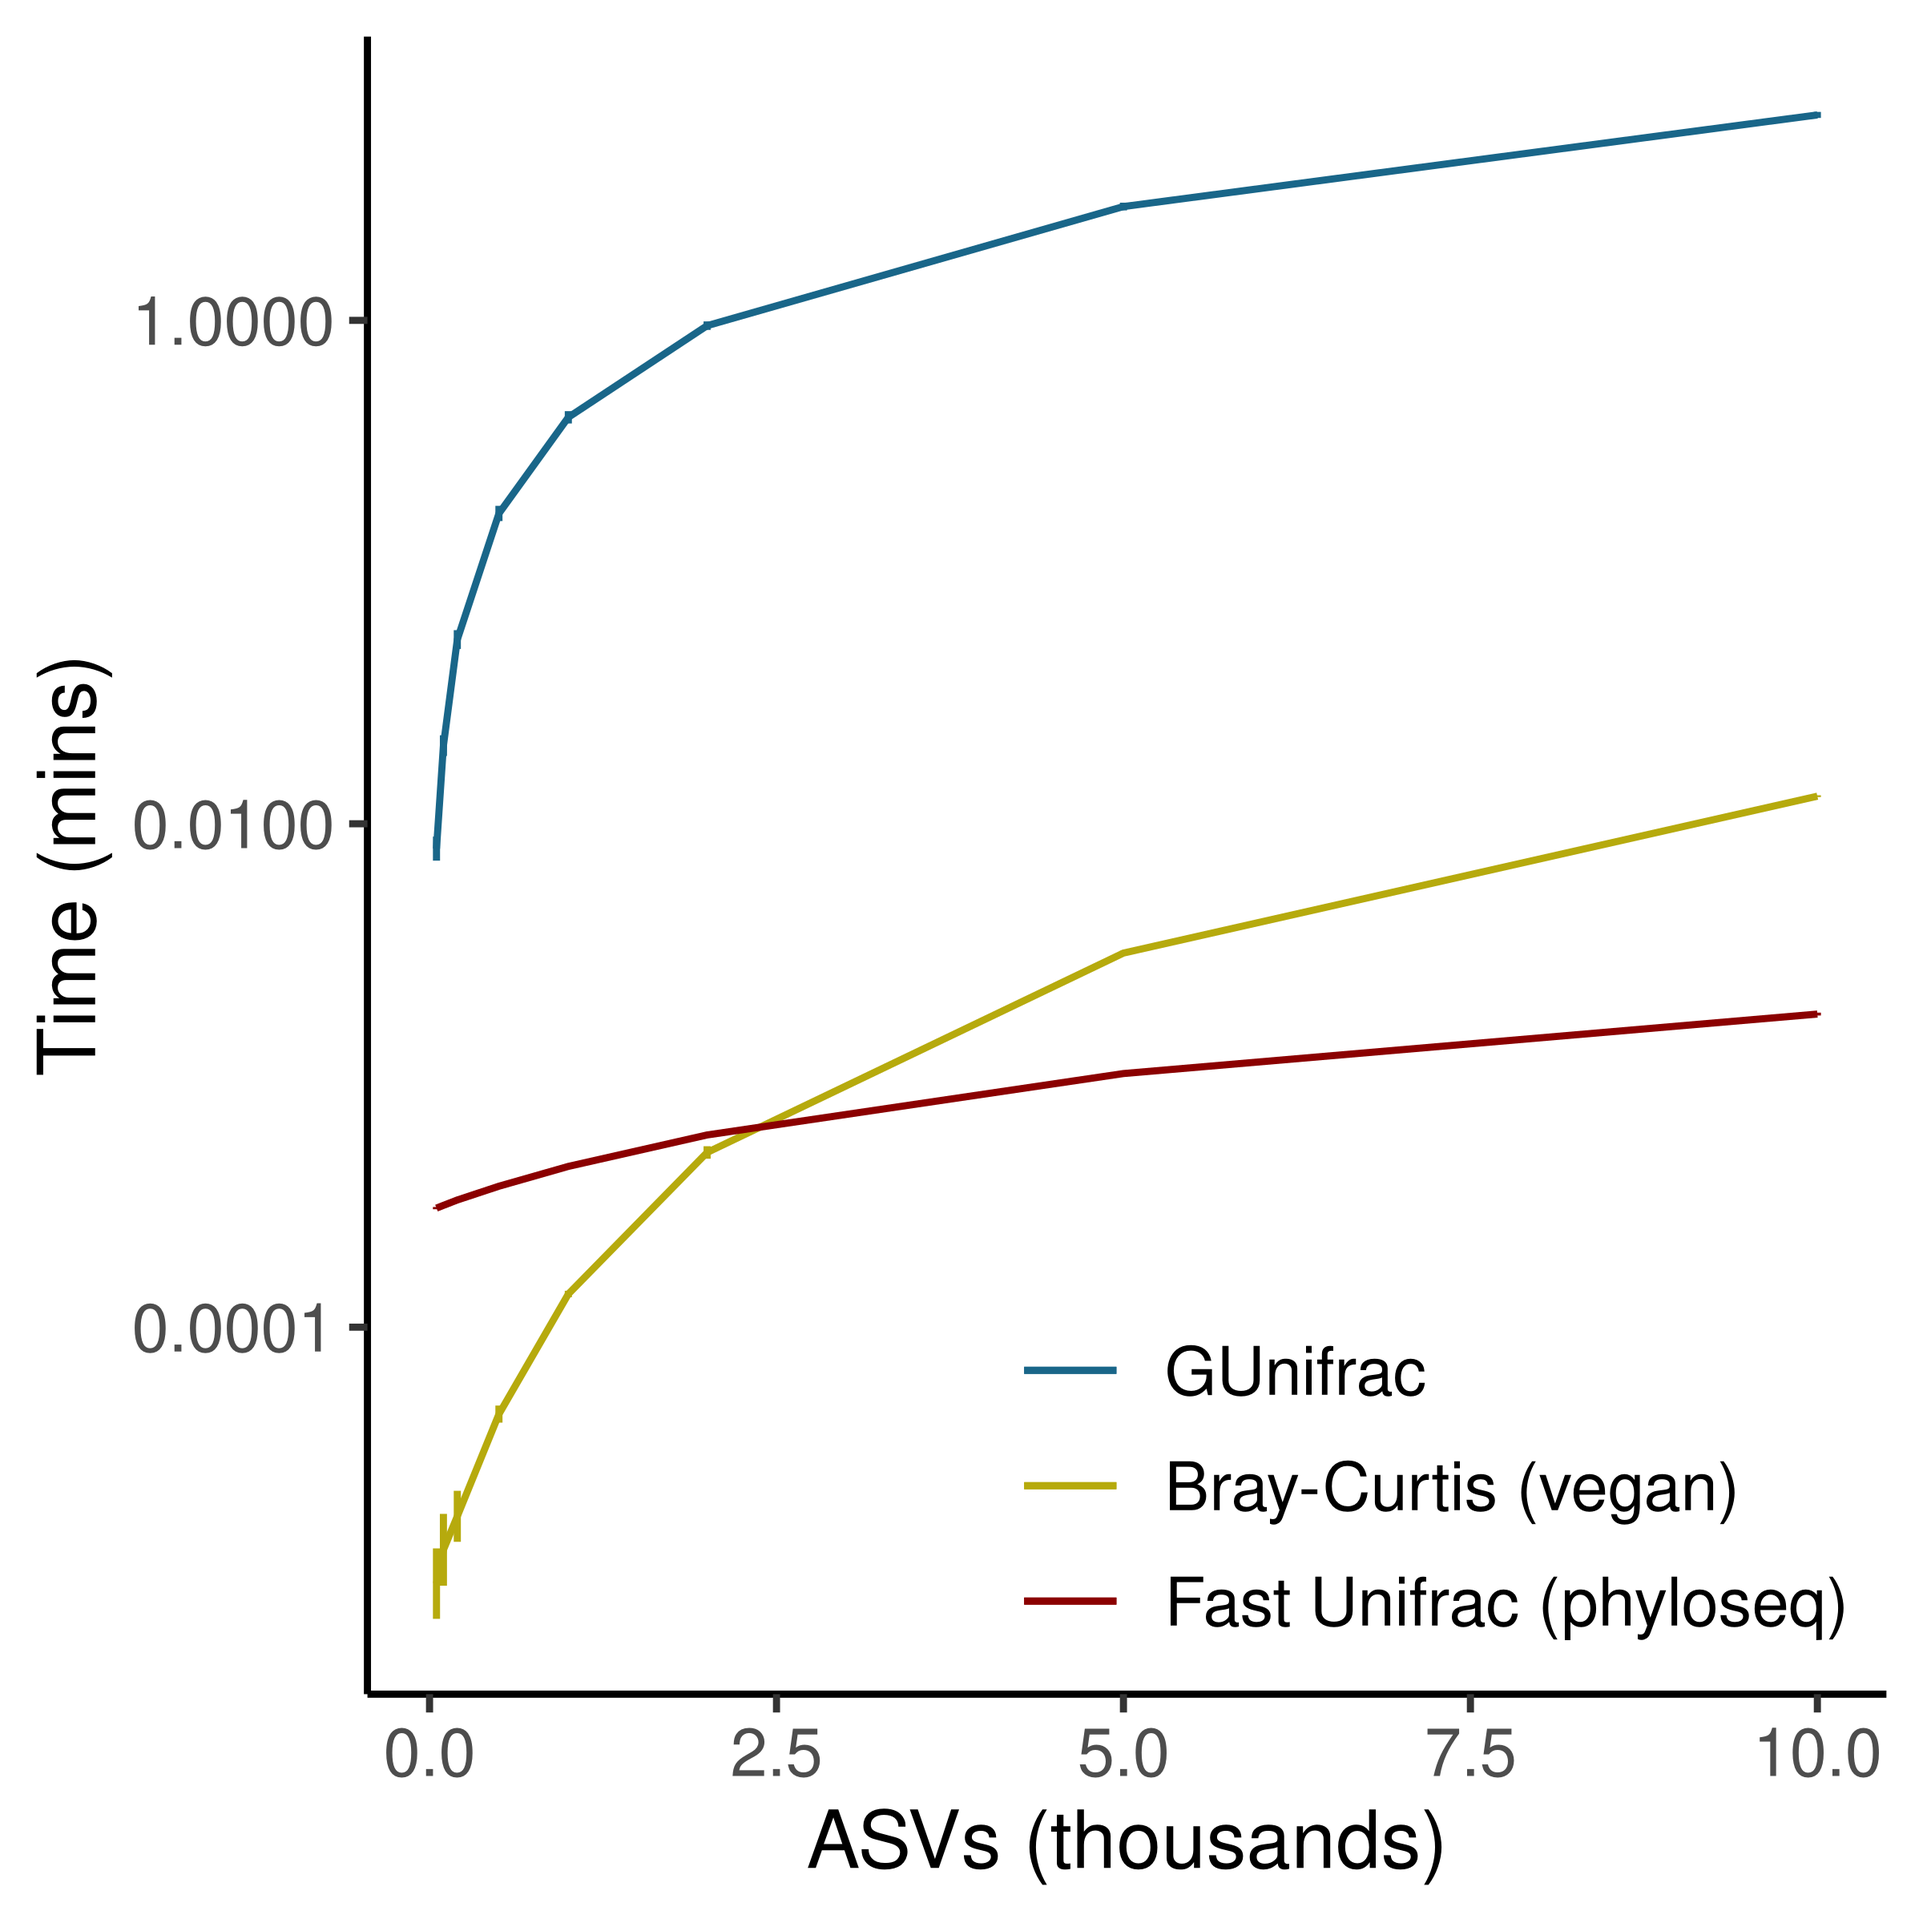
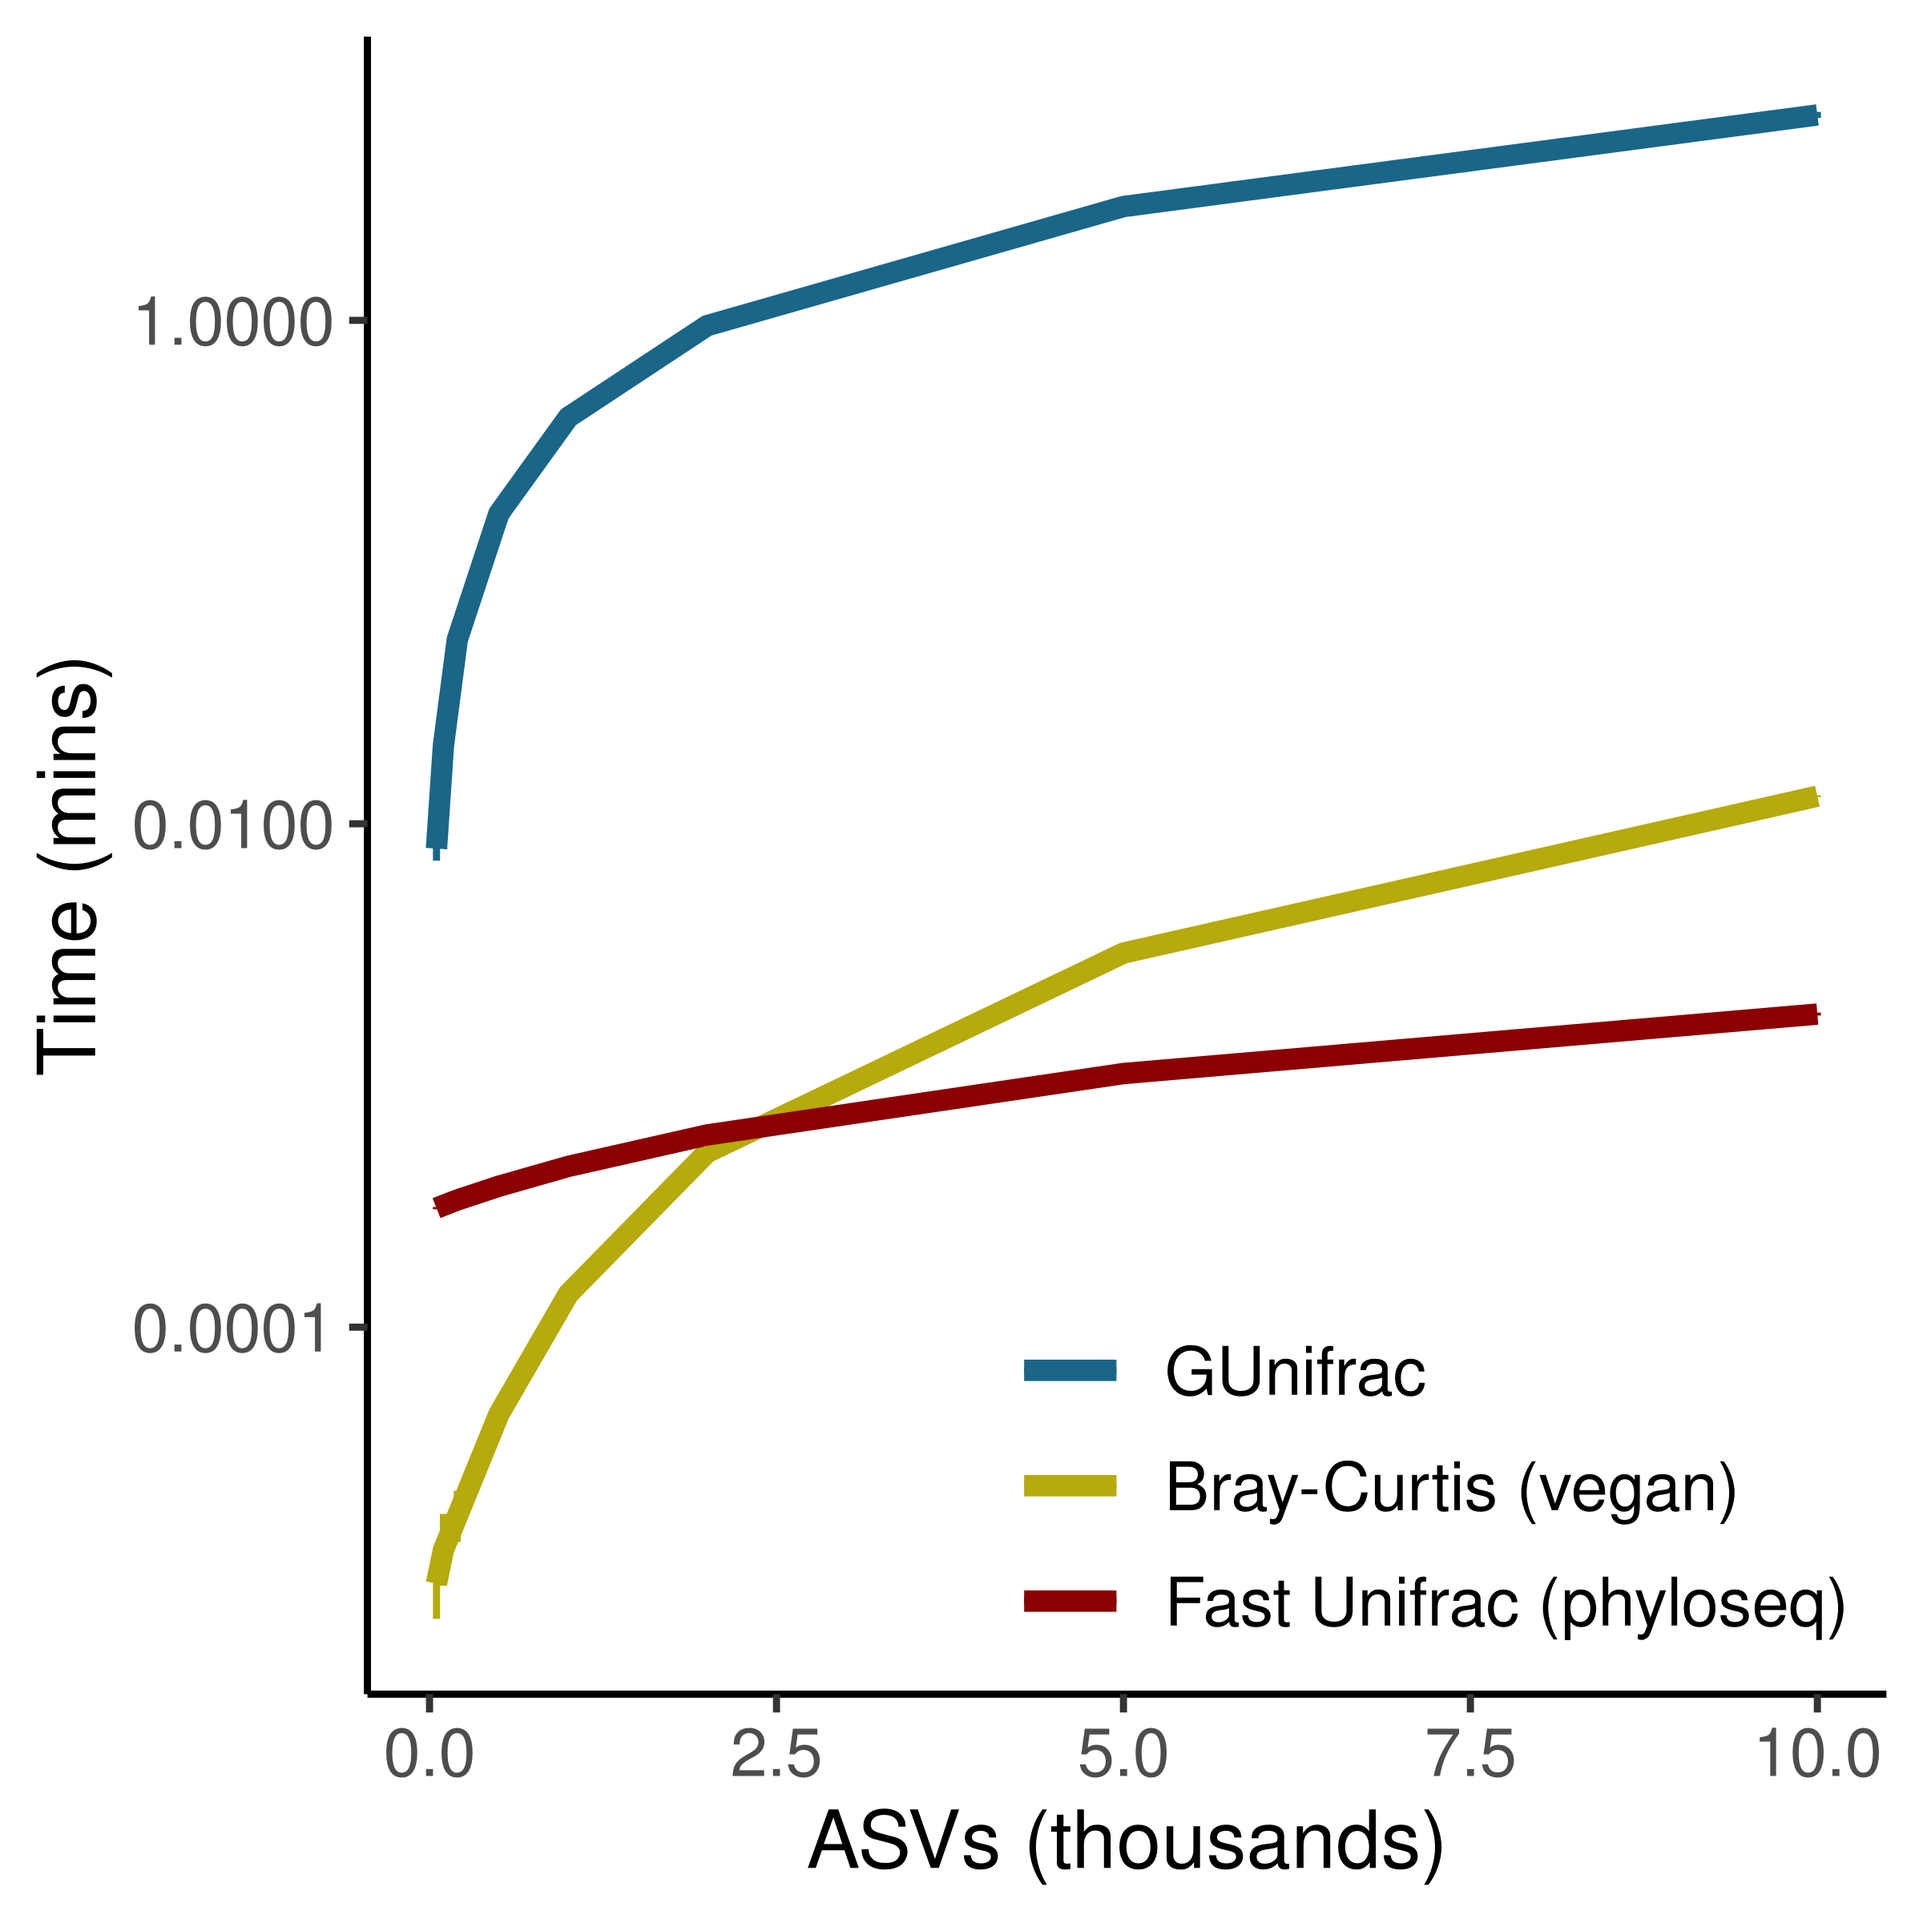
Thicker time lines

diff --git a/zhang_reanalysis/03_Zhang_BetaDiversity.html b/zhang_reanalysis/03_Zhang_BetaDiversity.html
@@ -623,7 +623,7 @@ Attaching package: 'ggpubr'</code></pre>
 <div class="sourceCode cell-code" id="cb29"><pre class="sourceCode r code-with-copy"><code class="sourceCode r"><span id="cb29-1"><a href="#cb29-1" aria-hidden="true" tabindex="-1"></a>time_res_df <span class="sc">%&gt;%</span></span>
 <span id="cb29-2"><a href="#cb29-2" aria-hidden="true" tabindex="-1"></a>  <span class="fu">filter</span>(Alphas <span class="sc">==</span> <span class="dv">1</span>, Samples <span class="sc">==</span> <span class="dv">10</span>) <span class="sc">%&gt;%</span></span>
 <span id="cb29-3"><a href="#cb29-3" aria-hidden="true" tabindex="-1"></a>  <span class="fu">ggplot</span>(<span class="fu">aes</span>(<span class="at">x =</span> ASVs<span class="sc">/</span><span class="dv">1000</span>, <span class="at">y=</span> Time<span class="sc">/</span><span class="dv">60</span>, <span class="at">color =</span> Metric)) <span class="sc">+</span> </span>
-<span id="cb29-4"><a href="#cb29-4" aria-hidden="true" tabindex="-1"></a>  <span class="fu">stat_summary</span>(<span class="at">geom =</span> <span class="st">"line"</span>, <span class="at">fun =</span> median) <span class="sc">+</span> </span>
+<span id="cb29-4"><a href="#cb29-4" aria-hidden="true" tabindex="-1"></a>  <span class="fu">stat_summary</span>(<span class="at">geom =</span> <span class="st">"line"</span>, <span class="at">fun =</span> median, <span class="at">linewidth =</span> <span class="fl">1.5</span>) <span class="sc">+</span> </span>
 <span id="cb29-5"><a href="#cb29-5" aria-hidden="true" tabindex="-1"></a>  <span class="fu">stat_summary</span>(<span class="at">geom =</span> <span class="st">"errorbar"</span>,</span>
 <span id="cb29-6"><a href="#cb29-6" aria-hidden="true" tabindex="-1"></a>               <span class="at">fun.min =</span> \(x)<span class="fu">median</span>(x)<span class="sc">-</span><span class="fu">sd</span>(x),</span>
 <span id="cb29-7"><a href="#cb29-7" aria-hidden="true" tabindex="-1"></a>               <span class="at">fun.max =</span> \(x)<span class="fu">median</span>(x)<span class="sc">+</span><span class="fu">sd</span>(x),</span>
